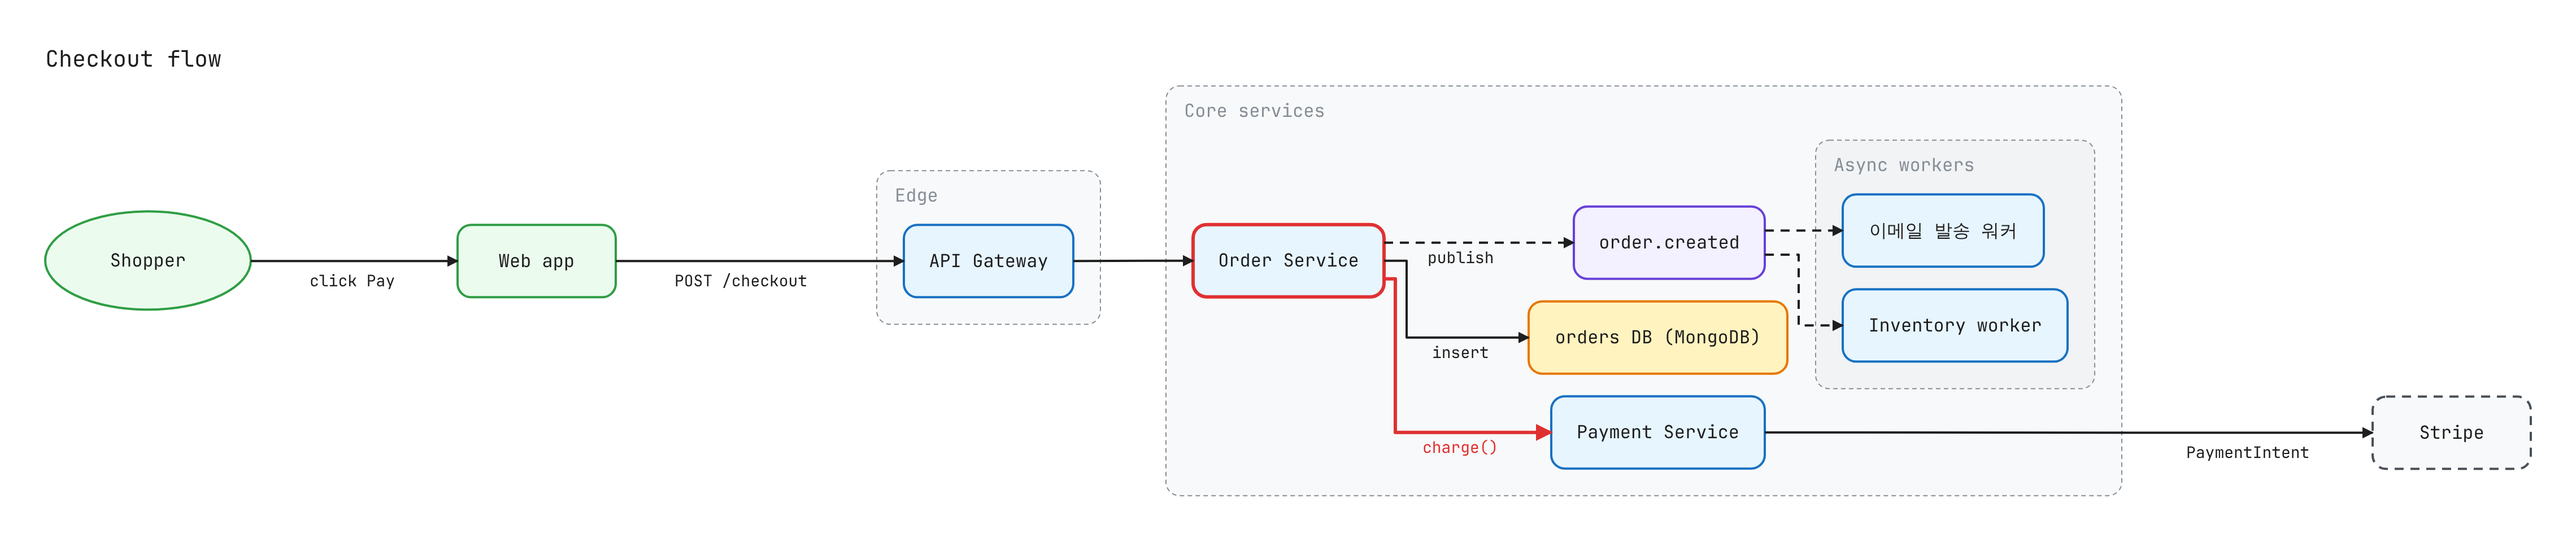
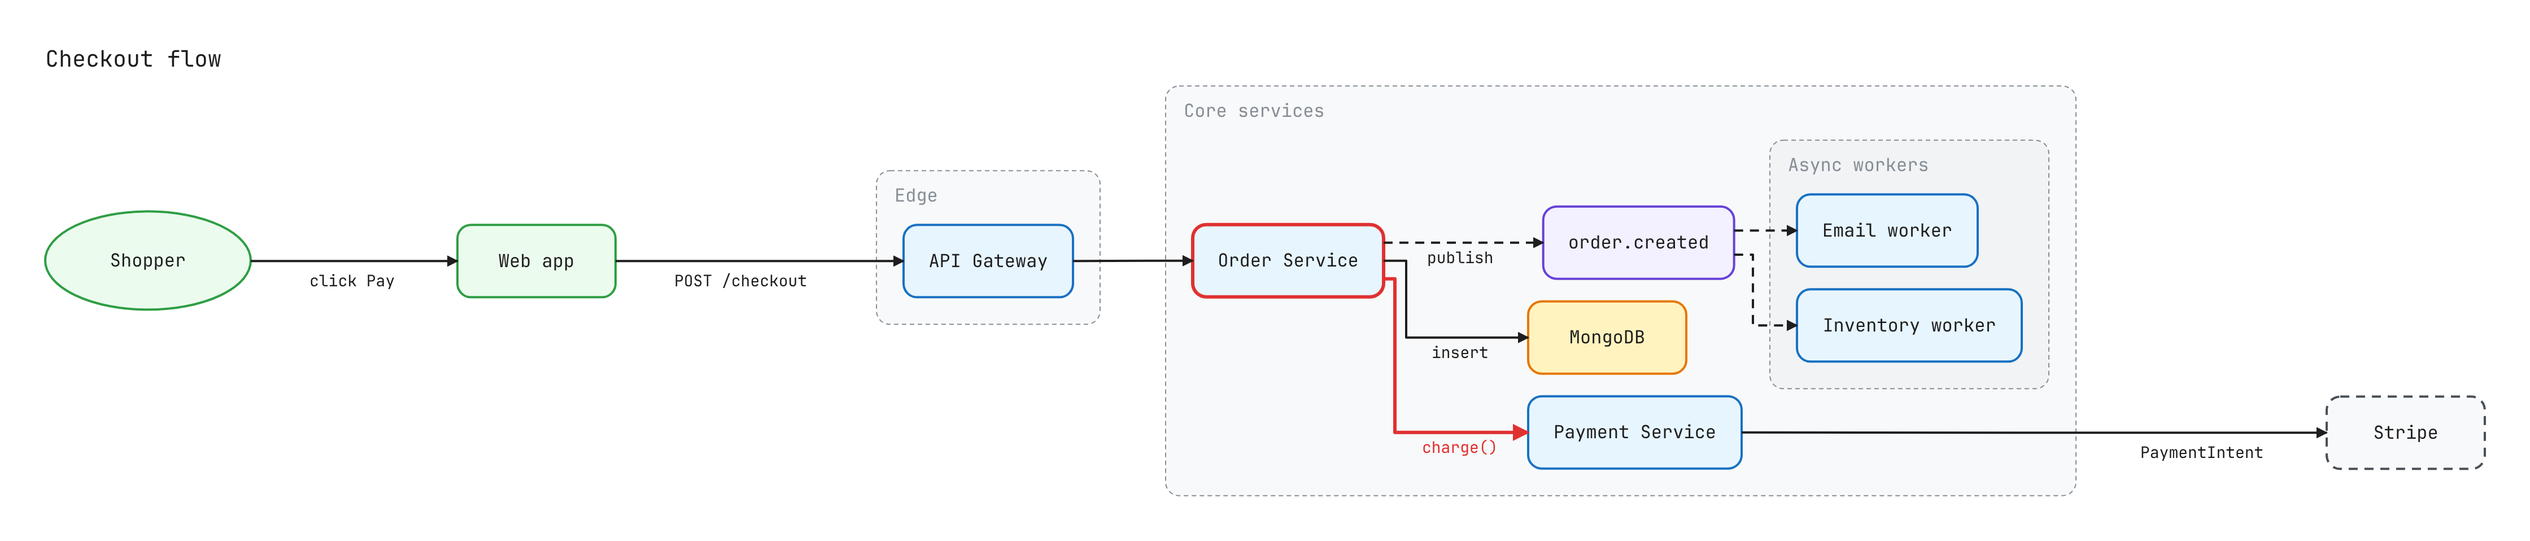
English-only checkout example; layout nodeSize option; DRAFTR_CHROMIUM
- checkout example and its README image no longer use Korean labels
- layoutGraph(input, { nodeSize }) lets renderers size nodes themselves
  (groundwork for icon cards)
- DRAFTR_CHROMIUM points PNG rendering at an existing Chromium when the
  Playwright-managed browser for the installed Playwright is missing

Claude-Session: https://claude.ai/code/session_01LxcXJEwKi61o5epVNw33xq

diff --git a/src/layout.ts b/src/layout.ts
@@ -26,9 +26,15 @@ export function nodeSize(node: Graph['nodes'][number]): { label: string; w: numb
 
 type ElkEdgeOut = ElkExtendedEdge & { container?: string };
 
-export async function layoutGraph(input: unknown): Promise<Scene> {
+export interface LayoutOptions {
+  /** Override how big each node is (e.g. for icon cards). Defaults to text-fit boxes. */
+  nodeSize?: (node: Graph['nodes'][number]) => { label: string; w: number; h: number };
+}
+
+export async function layoutGraph(input: unknown, opts: LayoutOptions = {}): Promise<Scene> {
   const g = parseGraph(input);
-  const sizes = Object.fromEntries(g.nodes.map((n) => [n.id, nodeSize(n)]));
+  const sizeOf = opts.nodeSize ?? nodeSize;
+  const sizes = Object.fromEntries(g.nodes.map((n) => [n.id, sizeOf(n)]));
   const hasLabels = g.edges.some((e) => e.label);
 
   const elkGroups: Record<string, ElkNode> = Object.fromEntries(g.groups.map((gr) => {

diff --git a/src/render.ts b/src/render.ts
@@ -13,7 +13,10 @@ export async function svgToPng(svg: string, { scale = 2 }: { scale?: number } = 
   }
   const m = svg.match(/width="(\d+)" height="(\d+)"/);
   const width = m ? Number(m[1]) : 1200, height = m ? Number(m[2]) : 800;
-  const browser = await chromium.launch();
+  // DRAFTR_CHROMIUM lets you point at an existing Chrome/Chromium when the
+  // Playwright-managed browser for this Playwright version isn't installed.
+  const executablePath = process.env.DRAFTR_CHROMIUM || undefined;
+  const browser = await chromium.launch(executablePath ? { executablePath } : {});
   try {
     const page = await browser.newPage({ viewport: { width, height }, deviceScaleFactor: scale });
     await page.setContent(`<!doctype html><html><body style="margin:0">${svg}</body></html>`);

diff --git a/README.md b/README.md
@@ -172,7 +172,7 @@ for f in docs/**/*.excalidraw; do draftr lint "$f" || exit 1; done
   "nodes": [
     { "id": "order", "label": "Order Service", "kind": "service", "group": "core", "highlight": true },
     { "id": "db", "label": "orders DB", "kind": "database", "group": "core" },
-    { "id": "mail", "label": "이메일 발송 워커", "kind": "service", "group": "async" }
+    { "id": "mail", "label": "Email worker", "kind": "service", "group": "async" }
   ],
   "edges": [
     { "from": "order", "to": "db", "label": "insert" },
